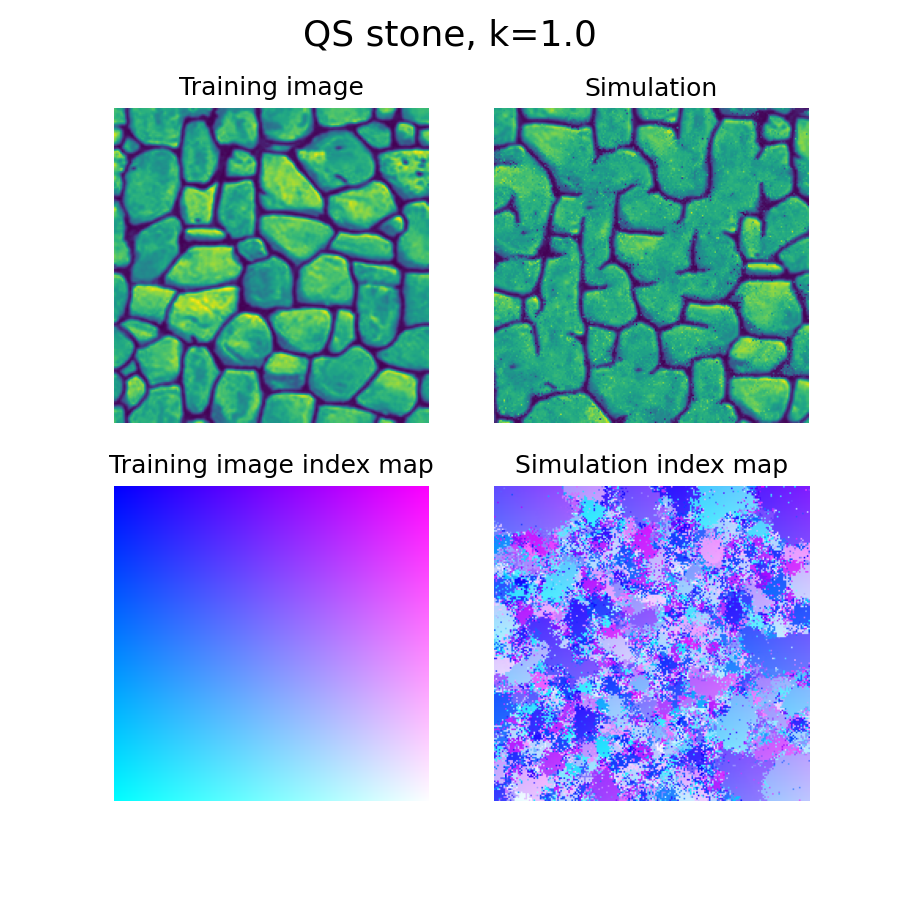
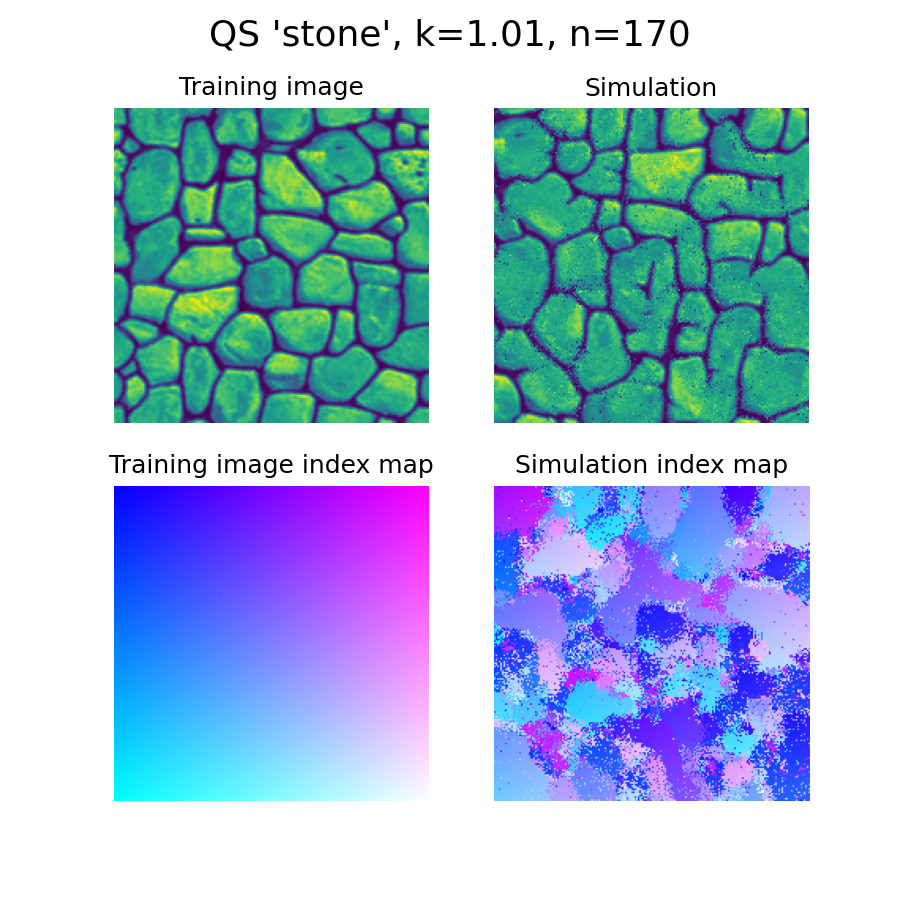
Update example images

diff --git a/verbatim_copy.py b/verbatim_copy.py
@@ -23,7 +23,7 @@ for path in os.listdir(directory):
     full_path = os.path.join(directory, path)
     if os.path.isfile(full_path):
         file = np.load(full_path)
-        n = 4
+        n = 170
         verbatim_indices = []
         filter_radi = range(1, 51)
         filter_radi = [1]
@@ -41,6 +41,24 @@ for path in os.listdir(directory):
         # index_map, patch_percentage = index_map_creator.create_patch_map(10, plot=True)
         # index_map = index_map_creator.create_full_random_map()
         # index_map, patch_percentage = index_map_creator.create_long_range_map(0.10)
+
+        fig, ((ax1, ax2), (ax3, ax4)) = plt.subplots(2, 2, figsize=(6, 6))
+        fig.suptitle(f'QS \'stone\', k={k}, n={n}', size='xx-large')
+        ax1.imshow(ti)
+        ax1.set_title('Training image')
+        ax1.axis('off')
+        ax2.imshow(simulation)
+        ax2.set_title('Simulation')
+        ax2.axis('off')
+
+        ax3.imshow(sourceIndex)
+        ax3.set_title('Training image index map')
+        ax3.axis('off')
+        ax4.imshow(np.reshape(sourceIndex, (-1, 3))[index_map])
+        ax4.set_title('Simulation index map')
+        ax4.axis('off')
+        plt.savefig('output/input_example', dpi=150)
+        plt.show()
 
         heat_map_creator = VerbatimHeatMapCreator(index_map)
 
@@ -73,16 +91,17 @@ for path in os.listdir(directory):
                 plot=True
             )
 
-            fig, (ax1, ax2, ax3) = plt.subplots(1, 3, figsize=(15, 4))
+            fig, (ax1, ax2, ax3) = plt.subplots(1, 3, figsize=(13, 4))
             ax1.imshow(np.reshape(sourceIndex, (-1, 3))[index_map], interpolation='none')
             ax1.set_title(f'Simulation index map')
             ax1.axis('off')
             ax2.imshow(heat_map, interpolation='none')
             ax2.set_title(f'Verbatim heat map, $r={filter_radius}$, $d={inv_dist_weight_exp}$')
             ax2.axis('off')
-            ax3.imshow(heat_map_including_neighbours, interpolation='none')
-            ax3.set_title(f'Neighbour verbatim heat map, $r={filter_radius}$, $d={inv_dist_weight_exp}$, $r_{{cl}}={2}$, $d_{{cl}}={1}$')
+            heat_map_im = ax3.imshow(heat_map_including_neighbours, interpolation='none')
+            ax3.set_title(f'Neighbour verbatim heat map,\n $r={filter_radius}$, $d={inv_dist_weight_exp}$, $r_{{cl}}={2}$, $d_{{cl}}={1}$')
             ax3.axis('off')
+            fig.colorbar(heat_map_im, ax=ax3)
             plt.savefig(f'output/heat_map_example.png', bbox_inches='tight', dpi=150)
             plt.show()
 
